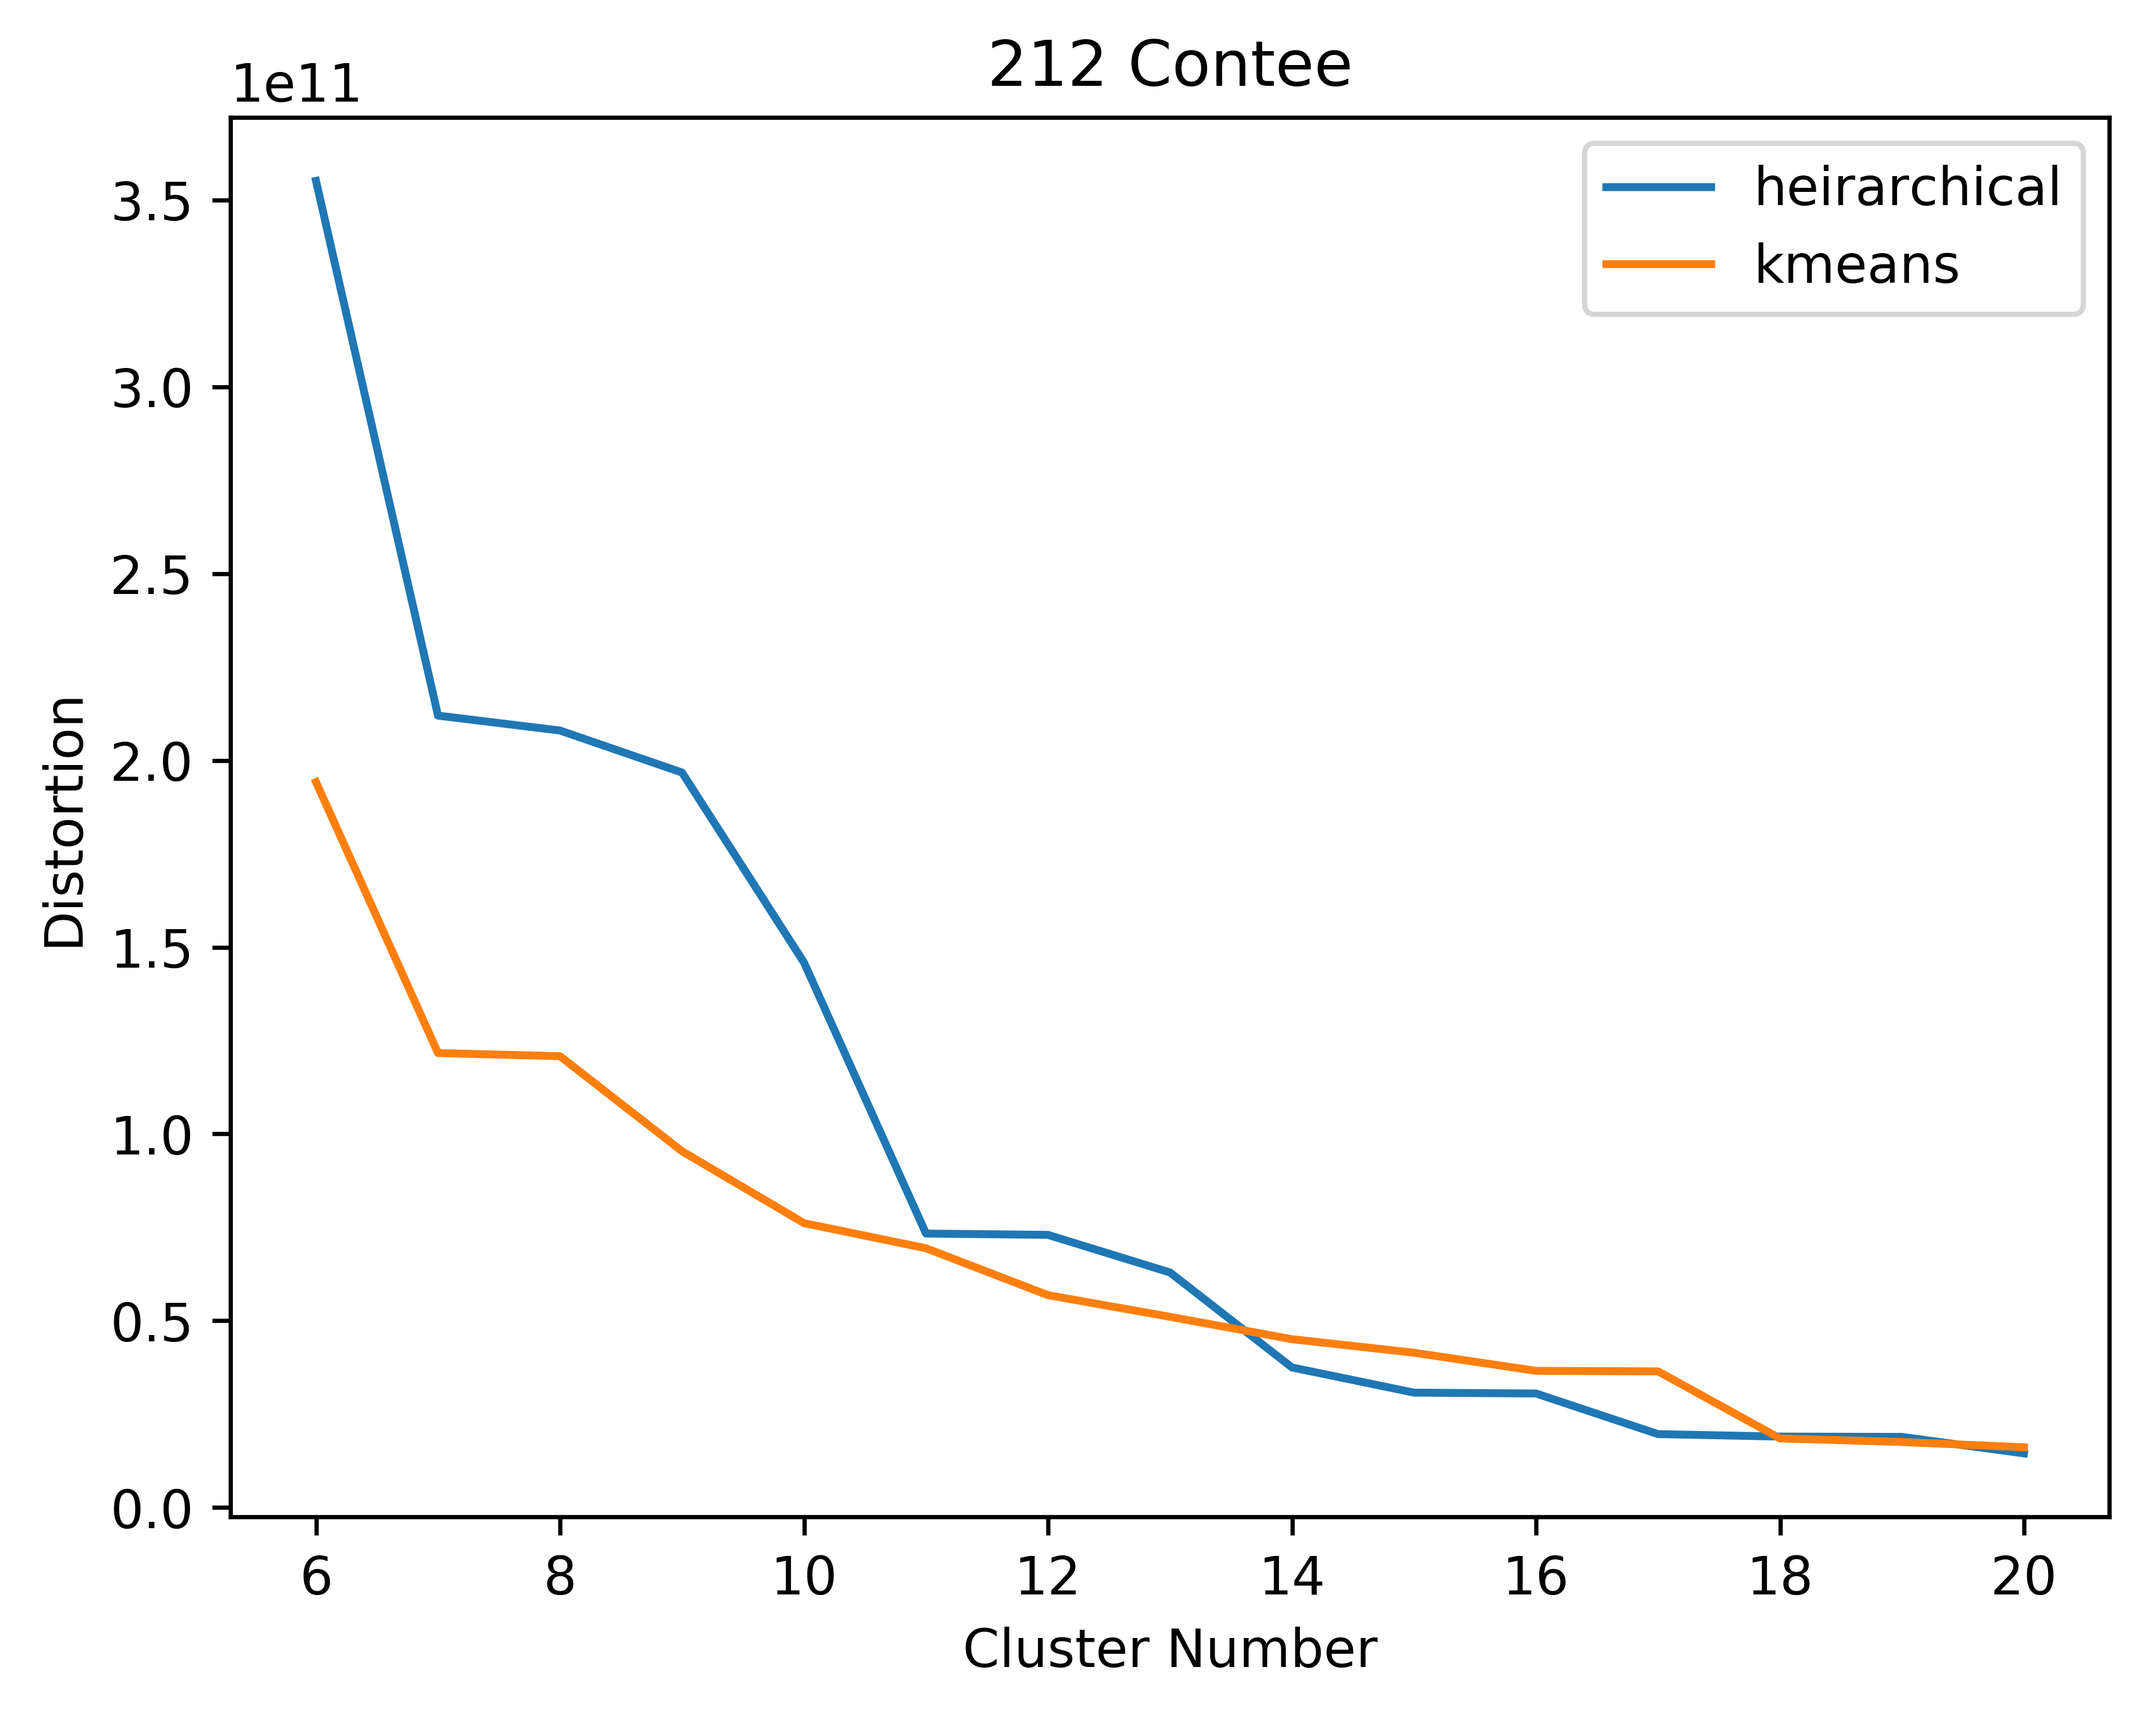
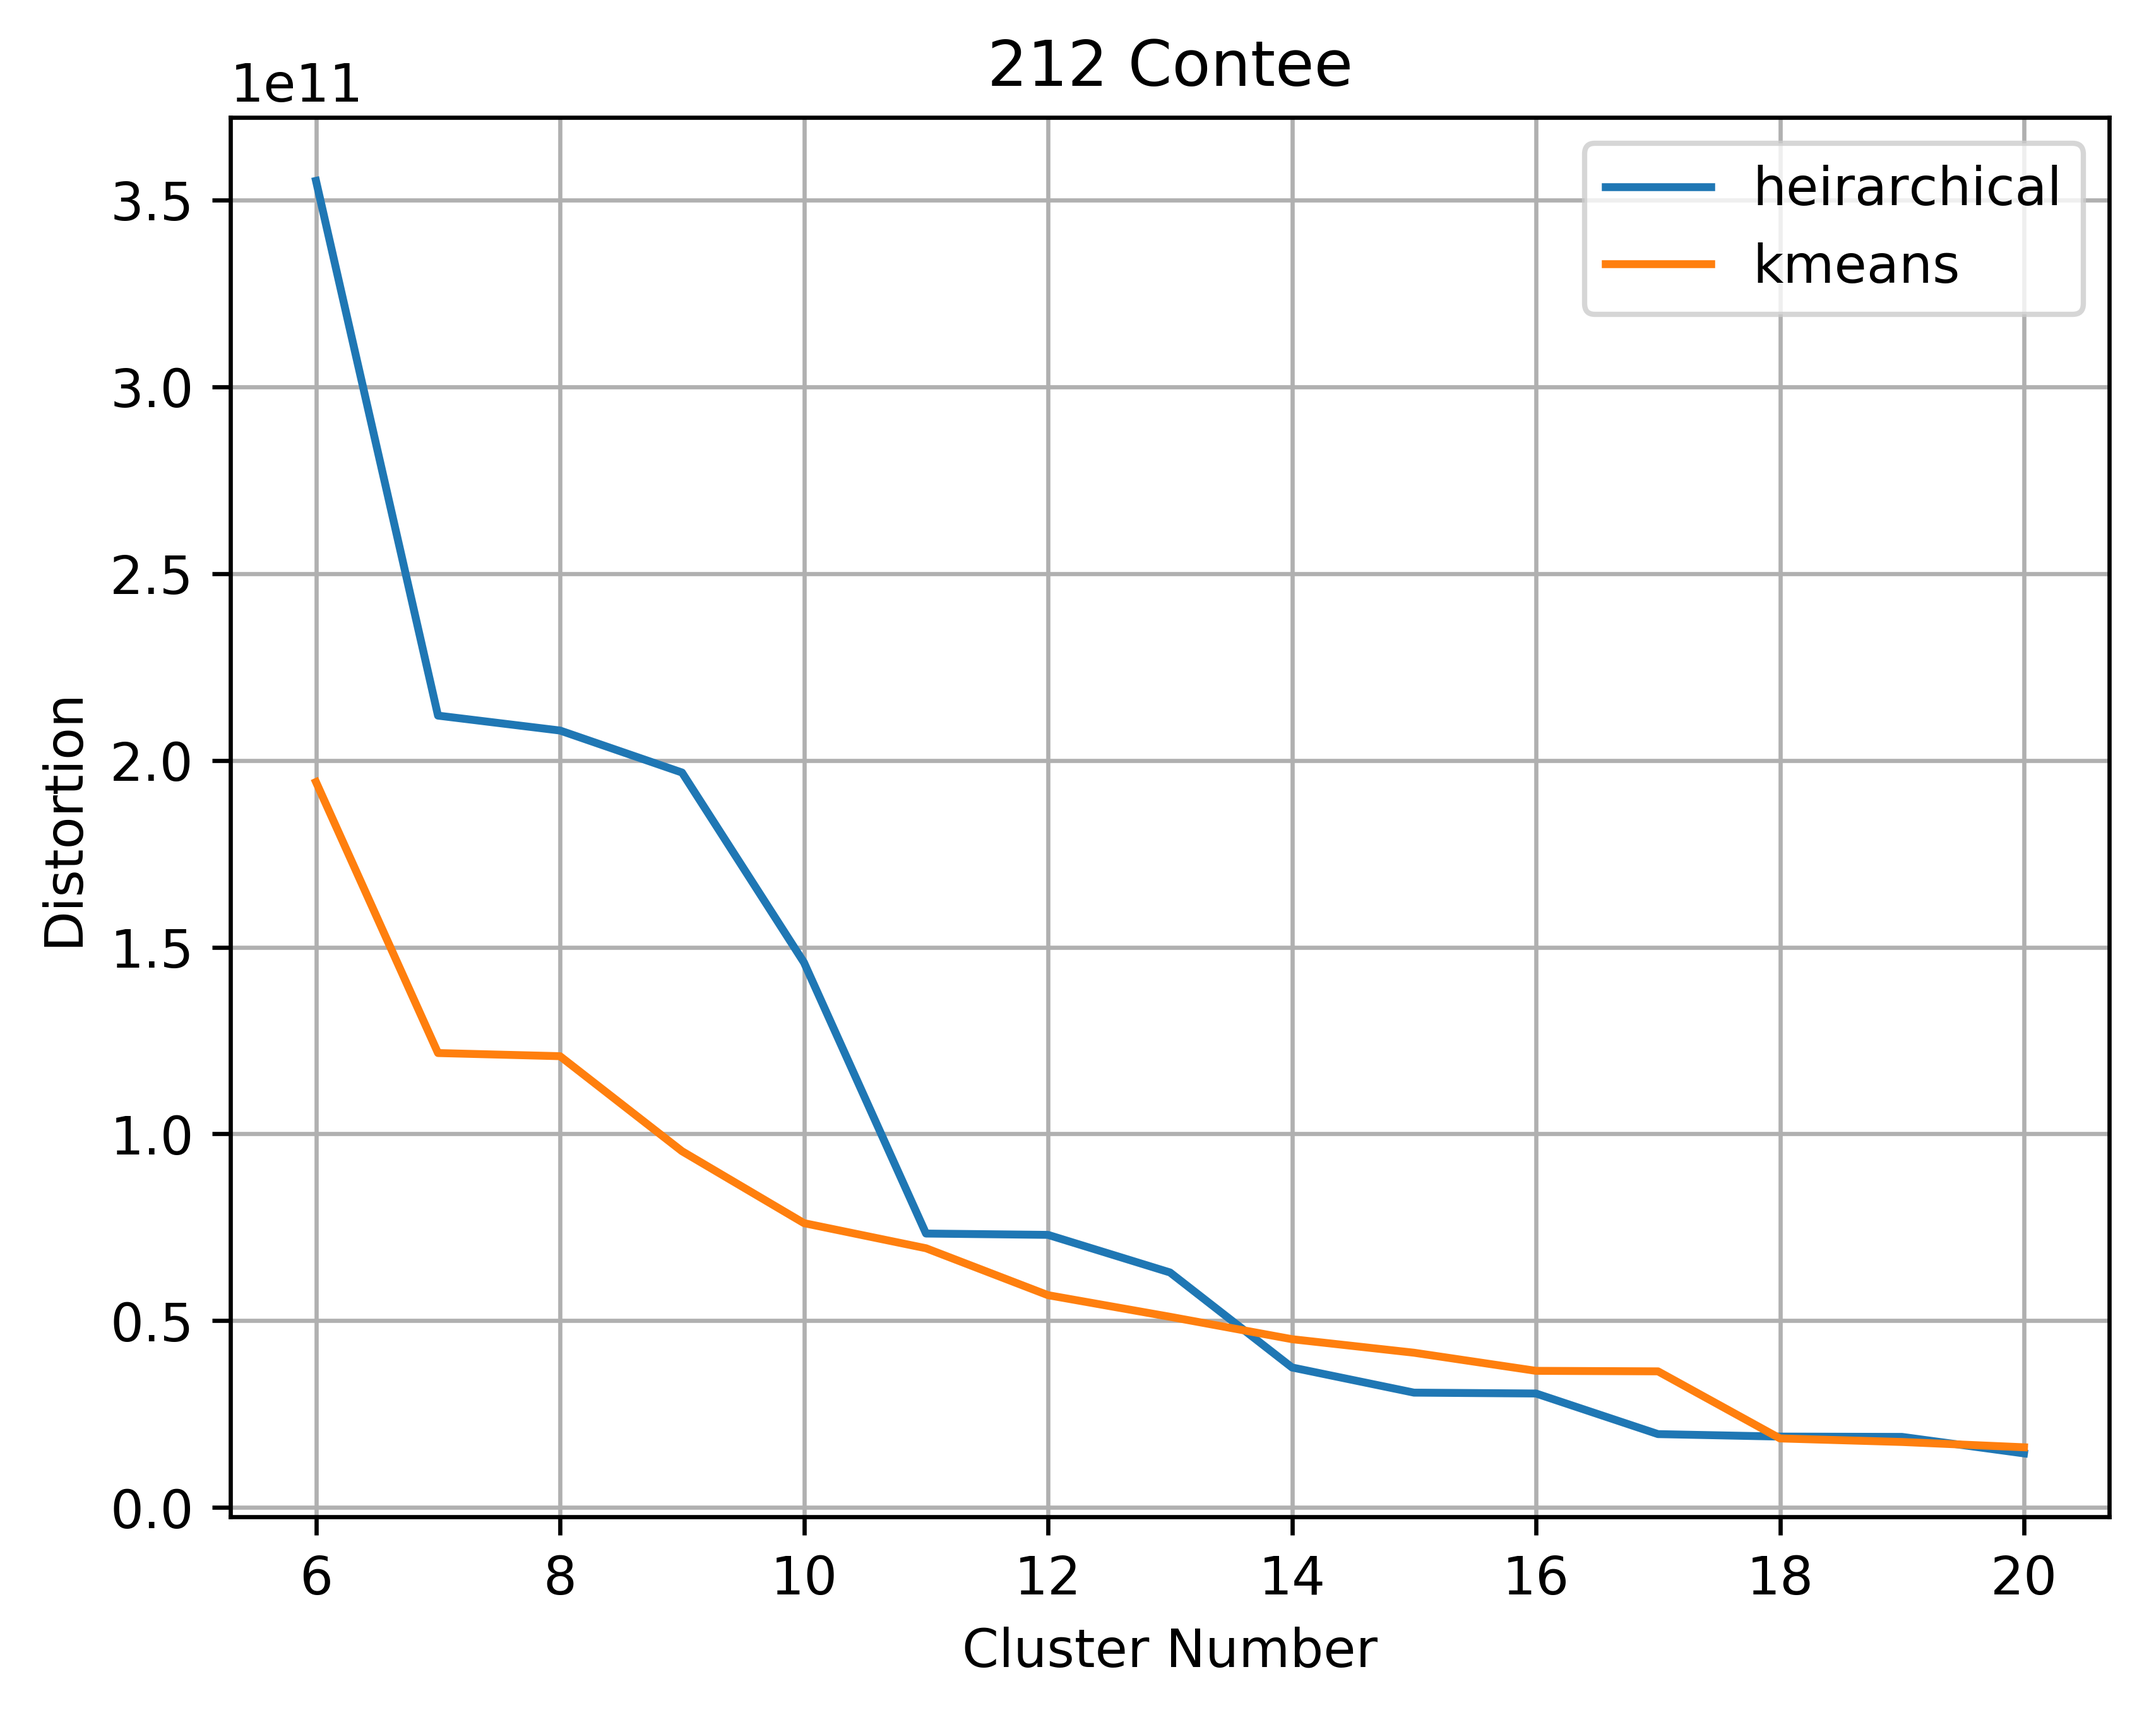
Sistemate distorsioni

diff --git a/Lab4/Script/main.py b/Lab4/Script/main.py
@@ -3,12 +3,12 @@ import time
 from Lab4.Script.Parser import Parser
 from Lab4.Script.kmeans import kmeans
 from Lab4.Script.HierarchicalClustering import h_clustering
-from Lab4.Script.ScatterPlotCluster import scatter_plot_cluster
+from Lab4.Script.Plotter import scatter_plot_cluster
 from Lab4.Script.utils import distortion
-from Lab4.Script.ScatterPlotCluster import distortionPlot
+from Lab4.Script.Plotter import distortionPlot
 
 dataset_212 = Parser('unifiedCancerData_212.csv')
-dataset_526 = Parser('unifiedCancerData_562.csv')
+dataset_562 = Parser('unifiedCancerData_562.csv')
 dataset_1041 = Parser('unifiedCancerData_1041.csv')
 dataset_3108 = Parser('unifiedCancerData_3108.csv')
 """
@@ -54,9 +54,9 @@ print("Tempo di esecuzione plot:", time.time()-start2, '\n')
 
 #Domanda 6
 
-clustozzo = kmeans(dataset_526, 16, 5)
+clustozzo = kmeans(dataset_562, 16, 5)
 
-clustozzo2 = h_clustering(dataset_526, 16)
+clustozzo2 = h_clustering(dataset_562, 16)
 
 
 print("Distorsione clustering gerarchico:", '%.5e' % distortion(clustozzo2))
@@ -65,26 +65,39 @@ print("Distorsione clustering kmeans:", '%.5e' % distortion(clustozzo))
 
 """
 
-#domanda 9
+# Domanda 9
 
-kmeansDist = []
-hDist = []
+kmeansDist_212 = []
+kmeansDist_562 = []
+kmeansDist_1041 = []
 
-"""for clusters in range(6, 21):
-    kmeansDist.append(distortion(kmeans(dataset_212, clusters, 5)))
-    hDist.append(distortion(h_clustering(dataset_212, clusters)))
-distortionPlot(hDist, kmeansDist, "Distorsione212", "212 Contee")"""
-kmeans(dataset_212, 15, 5)
+hDist_212 = []
+hDist_562 = []
+hDist_1041 = []
 
+h_dataset_212 = dataset_212
+h_dataset_562 = dataset_562
+h_dataset_1041 = dataset_1041
 
-"""for clusters in range(6, 21):
-    kmeansDist.append(distortion(kmeans(dataset_526, clusters, 5)))
-    hDist.append(distortion(h_clustering(dataset_526, clusters)))
-distortionPlot(hDist, kmeansDist, "Distorsione526", "526 Contee")"""
+pre_processed = False
 
-"""for clusters in range(6, 21):
-    kmeansDist.append(distortion(kmeans(dataset_1041, clusters, 5)))
-    hDist.append(distortion(h_clustering(dataset_1041, clusters)))
-distortionPlot(hDist, kmeansDist, "Distorsione1041", "1041 Contee")"""
+for k in range(6, 21):
+    kmeansDist_212.append(distortion(kmeans(dataset_212, k, 5)))
+    kmeansDist_562.append(distortion(kmeans(dataset_562, k, 5)))
+    kmeansDist_1041.append(distortion(kmeans(dataset_1041, k, 5)))
 
+for k in range(20, 5, -1):
+    h_dataset_212 = h_clustering(h_dataset_212, k, pre_processed)
+    hDist_212.append(distortion(h_dataset_212))
 
+    h_dataset_562 = h_clustering(h_dataset_562, k, pre_processed)
+    hDist_562.append(distortion(h_dataset_562))
+
+    h_dataset_1041 = h_clustering(h_dataset_1041, k, pre_processed)
+    hDist_1041.append(distortion(h_dataset_1041))
+
+    pre_processed = True
+
+distortionPlot(hDist_212, kmeansDist_212, "Distorsione212", "212 Contee")
+distortionPlot(hDist_562, kmeansDist_562, "Distorsione562", "562 Contee")
+distortionPlot(hDist_1041, kmeansDist_1041, "Distorsione1041", "1041 Contee")

diff --git a/Lab4/Script/HierarchicalClustering.py b/Lab4/Script/HierarchicalClustering.py
@@ -1,16 +1,22 @@
 from Lab4.Script.utils import *
 
 
-def h_clustering(P, k):
+def h_clustering(P, k, pre_processed):
     """
      Algoritmo di clustering gerarchico agglomerativo
 
-    :param P: lista di oggetti di tipo Contea (con coordinate x e y)
+    :param P: lista di oggetti di tipo Contea (con coordinate x e y) oppure
+            un dizionario di cluster pre calcolati (con pre_processed = True)
     :param k: numero di cluster in cui dividere l'insieme P
+    :param pre_processed: TRUE sse viene passato in P un dizionario di cluster pre calcolati
     :return:
     """
 
-    clusters = {(p.x, p.y): [p] for p in P}
+    if not pre_processed:
+        clusters = {(p.x, p.y): [p] for p in P}
+
+    else:
+        clusters = P
 
     while len(clusters) > k:
 

diff --git a/Lab4/Script/Plotter.py b/Lab4/Script/Plotter.py
@@ -45,10 +45,12 @@ def scatter_plot_cluster(clusters, P, nome):
 
 def distortionPlot(heirarchical, kmeans, nome, titolo):
     dataset = [x for x in range(6, 21)]
-    plt.plot(dataset, heirarchical, label='heirarchical')
+    plt.plot(dataset, sorted(heirarchical, reverse=True), label='heirarchical')
     plt.plot(dataset, kmeans, label='kmeans')
+    plt.grid()
     plt.xlabel('Cluster Number')
     plt.ylabel('Distortion')
     plt.title(titolo)
     plt.legend()
     plt.savefig("../File vari/" + nome, dpi=600, bbox_inches='tight')
+    plt.close()
